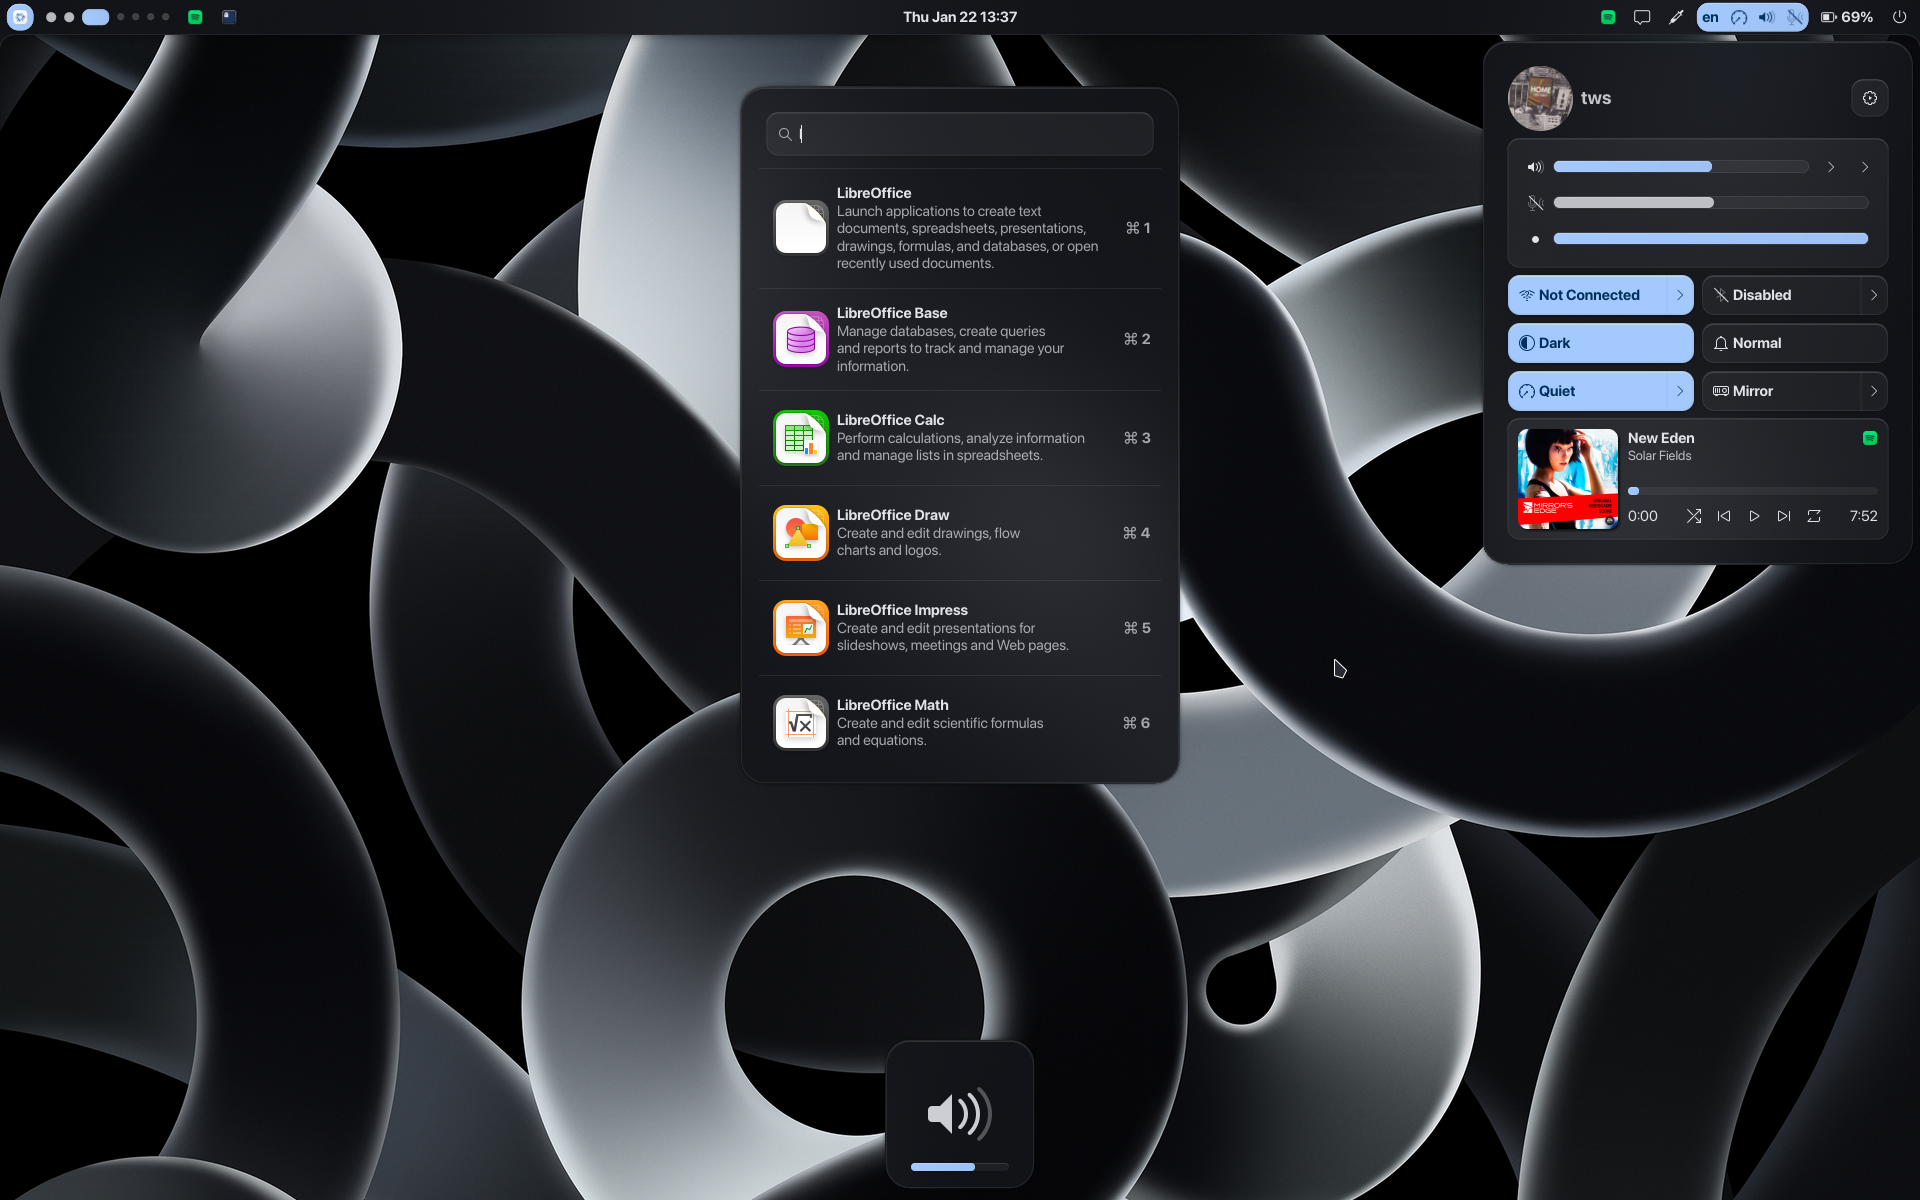
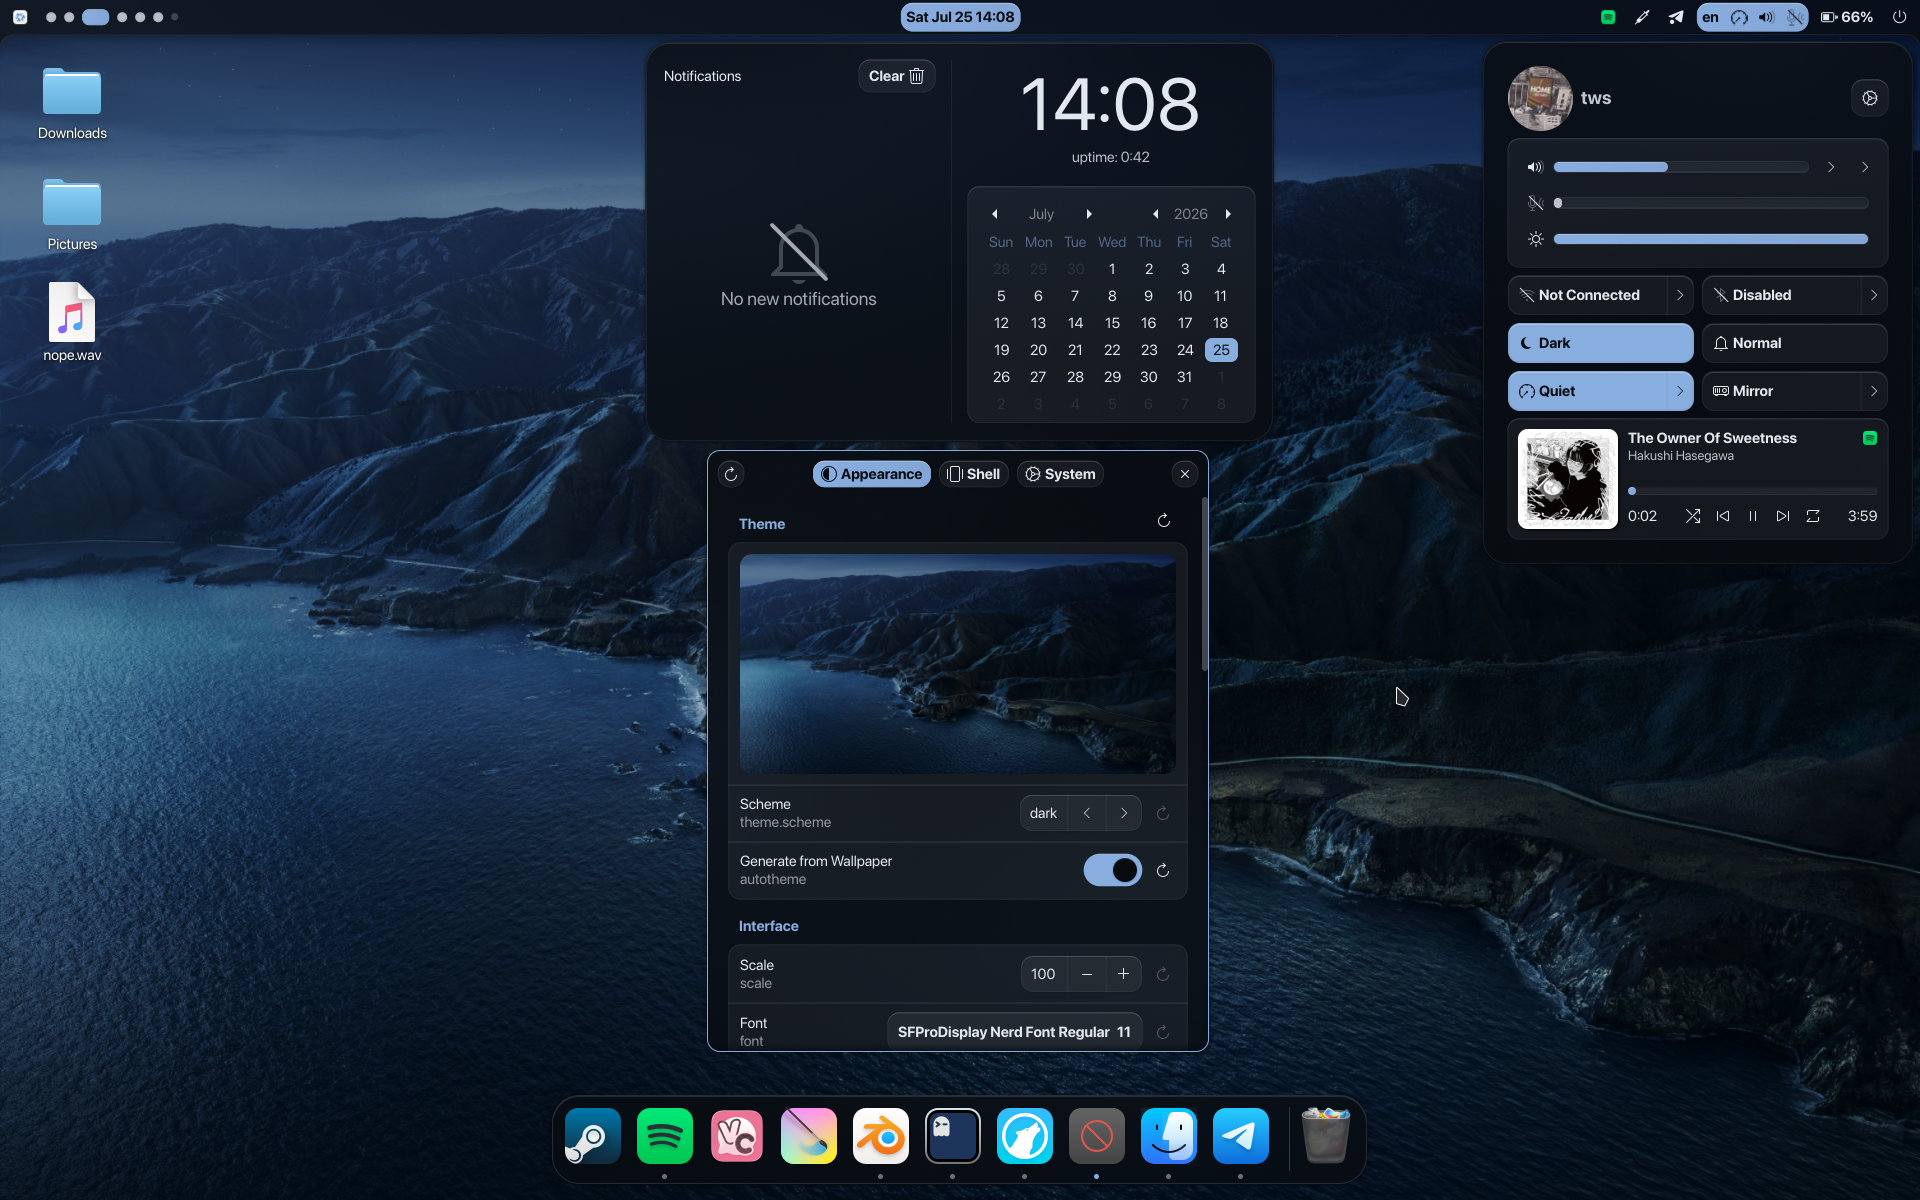
update thumbnail and readme

diff --git a/README.md b/README.md
@@ -163,8 +163,9 @@ in {
       XCURSOR_SIZE = "${toString cursorTheme.size}";
     };
     pointerCursor =
-      cursorTheme
+      (theme.cursor or {})
       // {
+        enable = true;
         gtk.enable = true;
       };
   };
